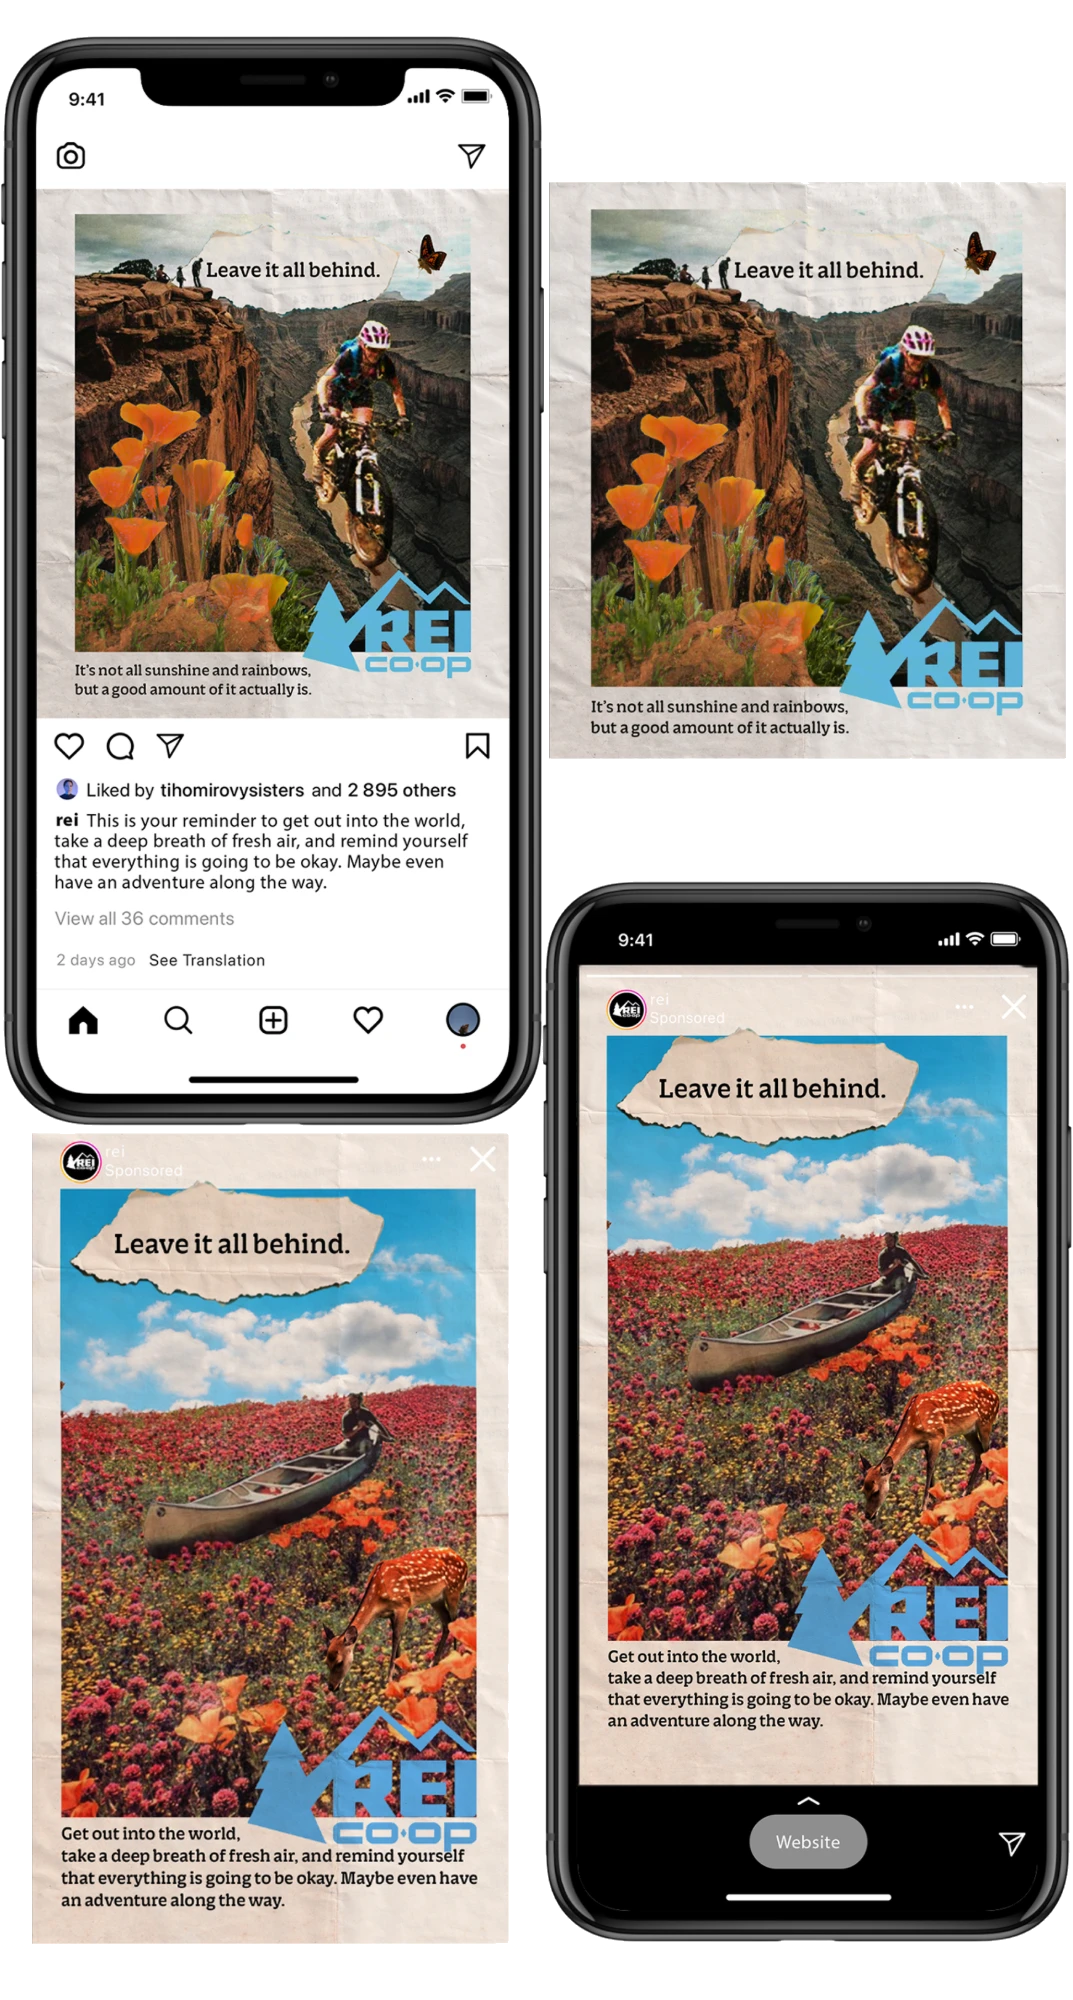
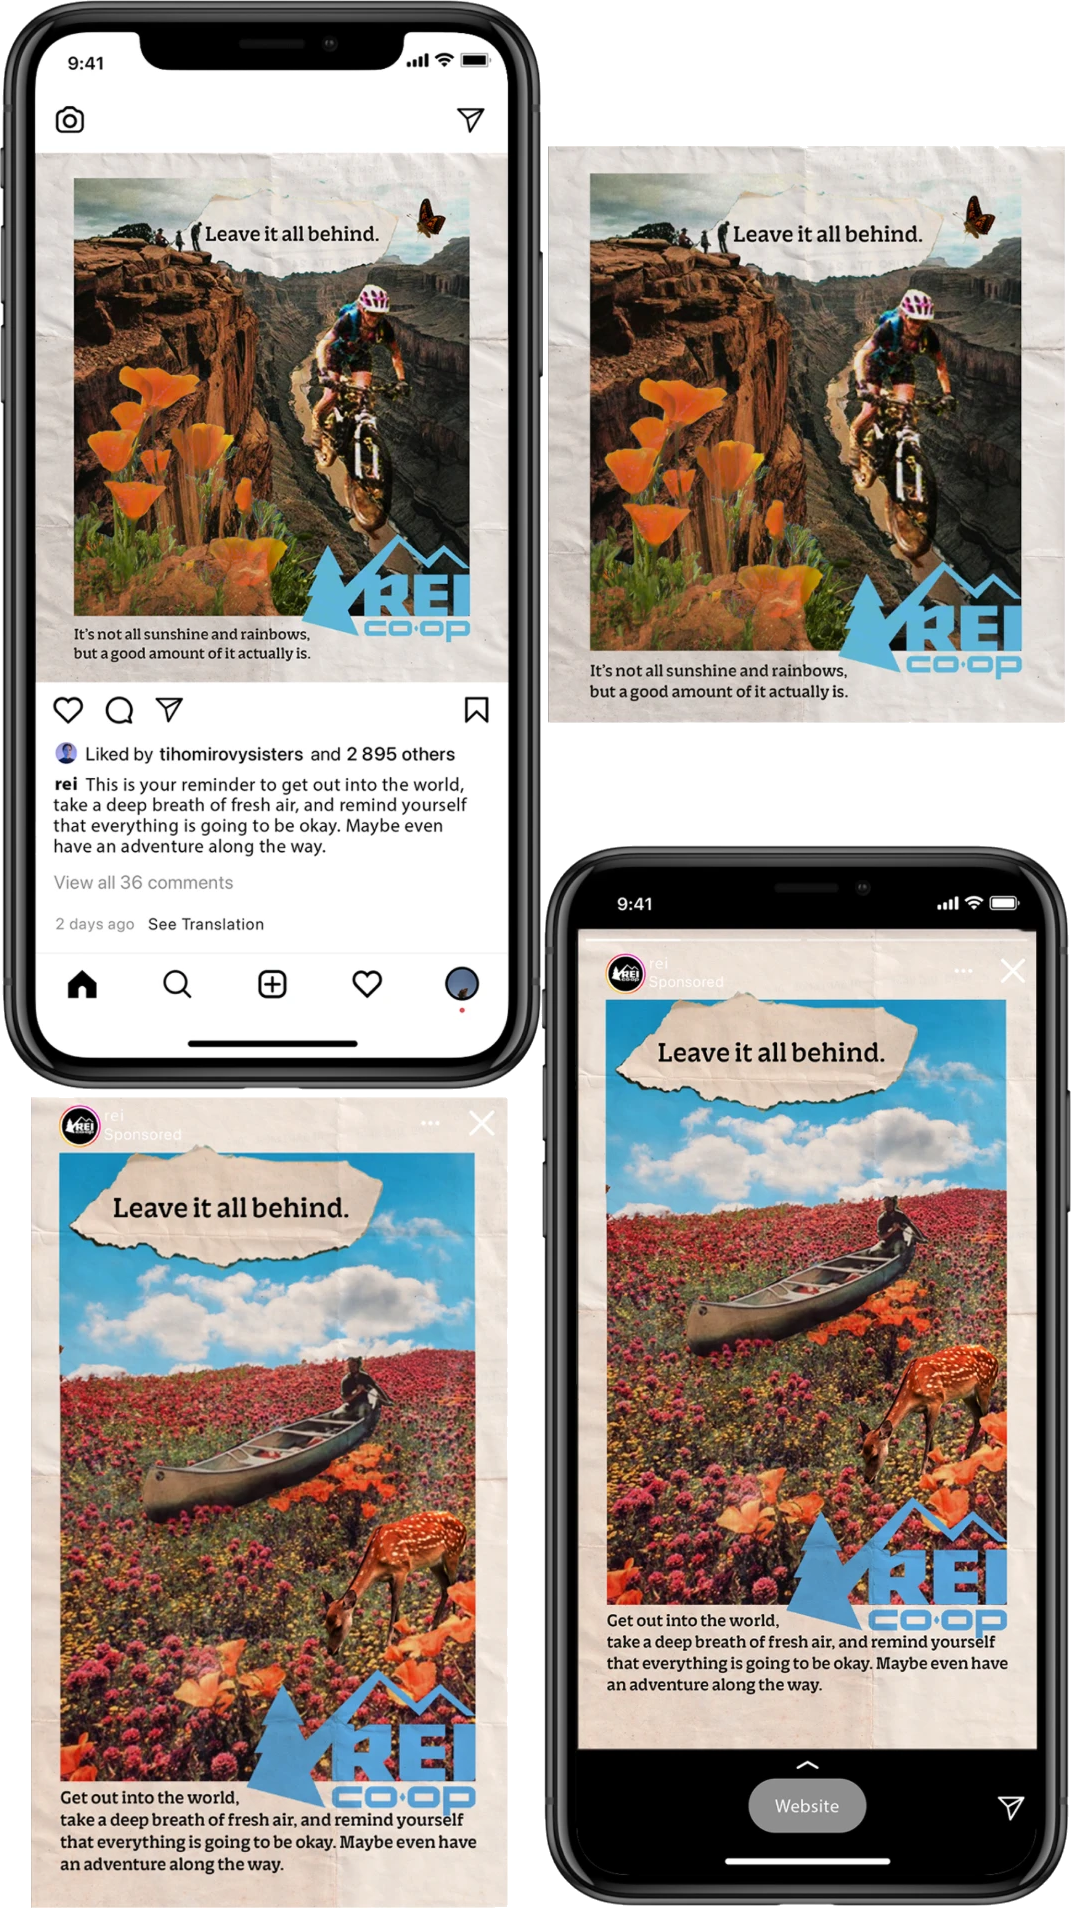
Home gallery: remove slot 4; trim gallery 03 so it fills its tile
Claude-Session: https://claude.ai/code/session_016JipU5KkSJDLw1FRNbE3mb

diff --git a/OPEN-ITEMS.md b/OPEN-ITEMS.md
@@ -88,11 +88,10 @@ Tick an item (`[x]`) when it's done.
 - [ ] Résumé PDF without phone number → replaces the placeholder `public/resume.pdf`
 - [ ] Figma exports for each case study (one folder per project)
 - [ ] A cover image for each case study (+ `cover` and `coverAlt` in its file) — shown large on Home
-- [ ] Home & Work gallery: fill the 8 visual piece slots in `content/home-gallery.yaml` — upload each file to `content/images/gallery/`, then replace the slot's `file` and `alt` (and set `fit`: cover or contain; add `poster` for videos):
+- [ ] Home & Work gallery: fill the visual piece slots in `content/home-gallery.yaml` — upload each file to `content/images/gallery/`, then replace the slot's `file` and `alt` (and set `fit`: cover or contain; add `poster` for videos):
   - [x] `gallery-01` — added (Experience Music Group Instagram screen recording, 6 s, loops; converted to H.264, 720 × 1280, no sound, 0.58 MB; poster still added). Confirm: OK to show the people in the Reel and the client logos in the profile grid (Rogers, Pioneer, Armor All)?
   - [x] `gallery-02` — added (REI Co-op poster mockup at a bus stop, 1080 × 1319 px). Confirm: is this a self-initiated / class concept for REI (not commissioned)? It shows REI's logo
-  - [x] `gallery-03` — added (REI Co-op Instagram post + story: phone mockups and flat artwork, 1073 × 2000 px, fills its tile; white background around the pieces made transparent). Same REI logo question as gallery-02
-  - [ ] `gallery-04` (16/9, cover)
+  - [x] `gallery-03` — added (REI Co-op Instagram post + story: phone mockups and flat artwork, 1071 × 1908 px, fills its tile edge to edge; white background around the pieces made transparent, empty margins trimmed). Same REI logo question as gallery-02
   - [x] `gallery-05` — added (Sake High! Instagram screen recording, 3.5 s, loops). Converted with ffmpeg to H.264, 720 × 1280, no sound, 0.47 MB (was 3 MB HEVC); poster still `gallery-05-poster.jpg` added
   - [ ] `gallery-06` (1/1, contain)
   - [x] `gallery-07` — added (toy-store game on two laptops, 986 × 1381 px)
